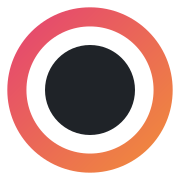
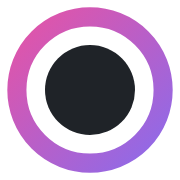
style(site): pink-to-purple ring and solid purple CTA, drop the orange gradient (#27)
The ring, icons, social preview and primary button used a magenta-to-amber
gradient. Move to a pink-to-purple ring and a flat purple button.

diff --git a/apps/web-extension/src/adapters/wrapAvatar.tsx b/apps/web-extension/src/adapters/wrapAvatar.tsx
@@ -68,7 +68,7 @@ const OVERLAY_CSS = `
   mask-composite: exclude;
 }
 .ghs-ring-overlay-root .ghs-story-ring__frame[data-state="unseen"] {
-  background-image: linear-gradient(135deg, var(--ghs-ring-unseen-start, #e5486f), var(--ghs-ring-unseen-end, #f0883e));
+  background-image: linear-gradient(135deg, var(--ghs-ring-unseen-start, #e254a8), var(--ghs-ring-unseen-end, #8f6ae8));
 }
 .ghs-ring-overlay-root .ghs-story-ring__frame[data-state="seen"] {
   background-image: linear-gradient(var(--ghs-ring-seen, #8c959f) 0 0);
@@ -89,7 +89,7 @@ const OVERLAY_CSS = `
   height: 13px;
   border-radius: 999px;
   border: 2px solid var(--ghs-canvas, #fff);
-  background: linear-gradient(135deg, var(--ghs-ring-unseen-start, #e5486f), var(--ghs-ring-unseen-end, #f0883e));
+  background: linear-gradient(135deg, var(--ghs-ring-unseen-start, #e254a8), var(--ghs-ring-unseen-end, #8f6ae8));
   padding: 0;
   cursor: pointer;
   pointer-events: auto;

diff --git a/internal/account/templates/layout.html b/internal/account/templates/layout.html
@@ -6,7 +6,7 @@
 <meta name="robots" content="noindex, nofollow">
 <title>{{.Title}} · GitHub Stories</title>
 <style>
-:root{--bg:#fff;--subtle:#f6f8fa;--border:#d1d9e0;--fg:#1f2328;--muted:#59636e;--accent:#0969da;--ring1:#e5486f;--ring2:#f0883e}
+:root{--bg:#fff;--subtle:#f6f8fa;--border:#d1d9e0;--fg:#1f2328;--muted:#59636e;--accent:#0969da;--ring1:#e254a8;--ring2:#8f6ae8}
 @media (prefers-color-scheme:dark){:root{--bg:#0d1117;--subtle:#151b23;--border:#3d444d;--fg:#f0f6fc;--muted:#9198a1;--accent:#4493f8}}
 *{box-sizing:border-box}
 body{margin:0;background:var(--bg);color:var(--fg);font:14px/1.5 -apple-system,BlinkMacSystemFont,"Segoe UI",Inter,"Noto Sans",Helvetica,Arial,sans-serif}

diff --git a/packages/ui/src/theme.css b/packages/ui/src/theme.css
@@ -33,9 +33,9 @@
   --ghs-overlay-backdrop: rgba(140, 149, 159, 0.5);
   --ghs-shadow-overlay: 0 8px 24px rgba(140, 149, 159, 0.2);
 
-  /* The one distinctive mark: a warm magenta -> amber ring. */
-  --ghs-ring-unseen-start: #e5486f;
-  --ghs-ring-unseen-end: #f0883e;
+  /* The one distinctive mark: a pink -> purple ring. */
+  --ghs-ring-unseen-start: #e254a8;
+  --ghs-ring-unseen-end: #8f6ae8;
   --ghs-ring-seen: #d1d9e0;
   --ghs-ring-muted: #8c959f;
 

diff --git a/apps/web-extension/entrypoints/popup/popup.css b/apps/web-extension/entrypoints/popup/popup.css
@@ -38,7 +38,7 @@ body {
 .ghs-pop-tab[aria-selected='true'] {
   color: var(--ghs-fg-default, #1f2328);
   background: var(--ghs-canvas-subtle, #f6f8fa);
-  box-shadow: inset 0 -2px 0 var(--ghs-ring-1, #e5486f);
+  box-shadow: inset 0 -2px 0 var(--ghs-ring-1, #e254a8);
 }
 .ghs-pop-tab:focus-visible {
   outline: 2px solid var(--ghs-accent, #0969da);

diff --git a/apps/site/src/styles/global.css b/apps/site/src/styles/global.css
@@ -221,12 +221,12 @@ pre {
 }
 
 .btn--primary {
-  background: linear-gradient(135deg, var(--ghs-ring-unseen-start), var(--ghs-ring-unseen-end));
+  background: #7c4dcc;
   color: #fff;
 }
 
 .btn--primary:hover {
-  filter: brightness(1.05);
+  background: #6d3fbd;
 }
 
 .btn--secondary {
